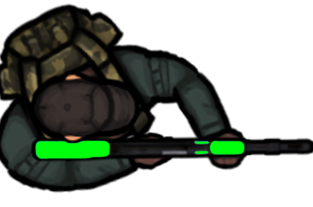
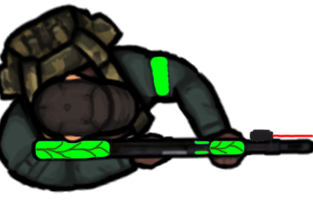
Finished Map for Game
Small 800x600 map with 2 roads 2 ally ways and a few buildings. Hitboxes have yet to be added.

diff --git a/sprites.py b/sprites.py
@@ -30,26 +30,28 @@ def clearConsole():
         command = 'cls'
     os.system(command)
 
-player_image_upgrade1 = ("")
+map = pg.image.load("map.png")
+crate = pg.image.load("crate.png")
 ammobox = pg.image.load("ammobox.png")
 no_bullets = pg.mixer.Sound("nobullet.wav")
 bullet_sound = pg.mixer.Sound("bullet1soundeffect.wav")
 enemy_image = pg.image.load("skeleton-idle_81.png")
-player_image = pg.image.load("player3.png")
+player_image = pg.image.load("player4.png")
 bullet_image = pg.image.load("bullet.png")
 angle = 90
 
-class Ammobox(pg.sprite.Sprite):
+class Map2(pg.sprite.Sprite):
     def __init__(self):
         pg.sprite.Sprite.__init__(self)
-        self.image = ammobox
-        self.image = pg.transform.scale(self.image, (100, 100))
-        self.pos = vec(500, 500)
+        self.image = map
+        self.image = pg.transform.scale(self.image, (800, 600))
+        self.pos = vec(400, 300)
         self.rect = self.image.get_rect()
         self.rect.center = self.pos
 
 class Player(pg.sprite.Sprite):
     def __init__(self):
+        self.reloading = False
         pg.sprite.Sprite.__init__(self)
         self.image = player_image
         self.image = pg.transform.scale(self.image, (50, 50))
@@ -64,13 +66,23 @@ class Player(pg.sprite.Sprite):
         self.image_rl = self.image
         self.direction = "RIGHT"
         self.ammo = 30
+        self.mags_left = 3
         self.last_shot = 0
 
     def update(self):
         keys = pg.key.get_pressed()
 
         if keys[pg.K_r]:
-            self.ammo = 30
+            if self.mags_left > 0:
+                if self.ammo == 0:
+                    self.mags_left -= 1
+                    self.ammo = 30
+
+                else:
+                    print("There are still bullets left in the magazine.")
+
+            else:
+                print("There are no mags left.")
 
         if keys[pg.K_w]:
             self.image = self.image_up
@@ -100,18 +112,19 @@ class Player(pg.sprite.Sprite):
     def shoot(self):
         self.now = pg.time.get_ticks()
         self.now -= self.last_shot
-        if self.now > 200:
-            if self.ammo > 0:
-                self.last_shot = pg.time.get_ticks()
-                self.ammo -= 1
-                bullet_sound.play()
-                attack = Bullet1(self.pos.x, self.pos.y, self.direction)
-                bullets.add(attack)
-                all_sprites.add(attack)
+        if self.reloading == False:
+            if self.now > 200:
+                if self.ammo > 0:
+                    self.last_shot = pg.time.get_ticks()
+                    self.ammo -= 1
+                    bullet_sound.play()
+                    attack = Bullet1(self.pos.x, self.pos.y, self.direction)
+                    bullets.add(attack)
+                    all_sprites.add(attack)
 
-            else:
-                self.last_shot = pg.time.get_ticks()
-                no_bullets.play()
+                else:
+                    self.last_shot = pg.time.get_ticks()
+                    no_bullets.play()
             
 class Bullet1(pg.sprite.Sprite):    
     def __init__(self, x, y, direction):
